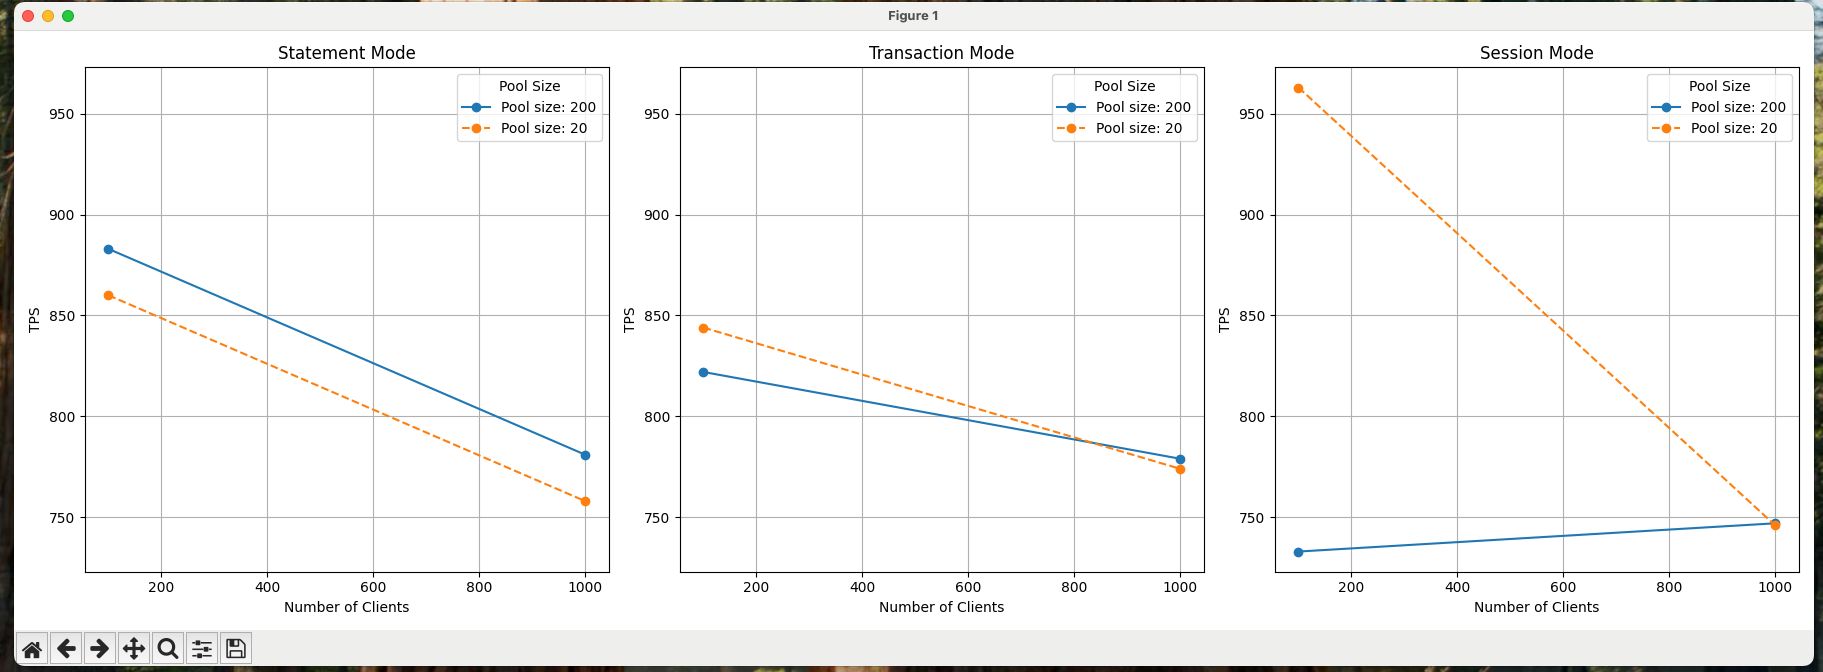
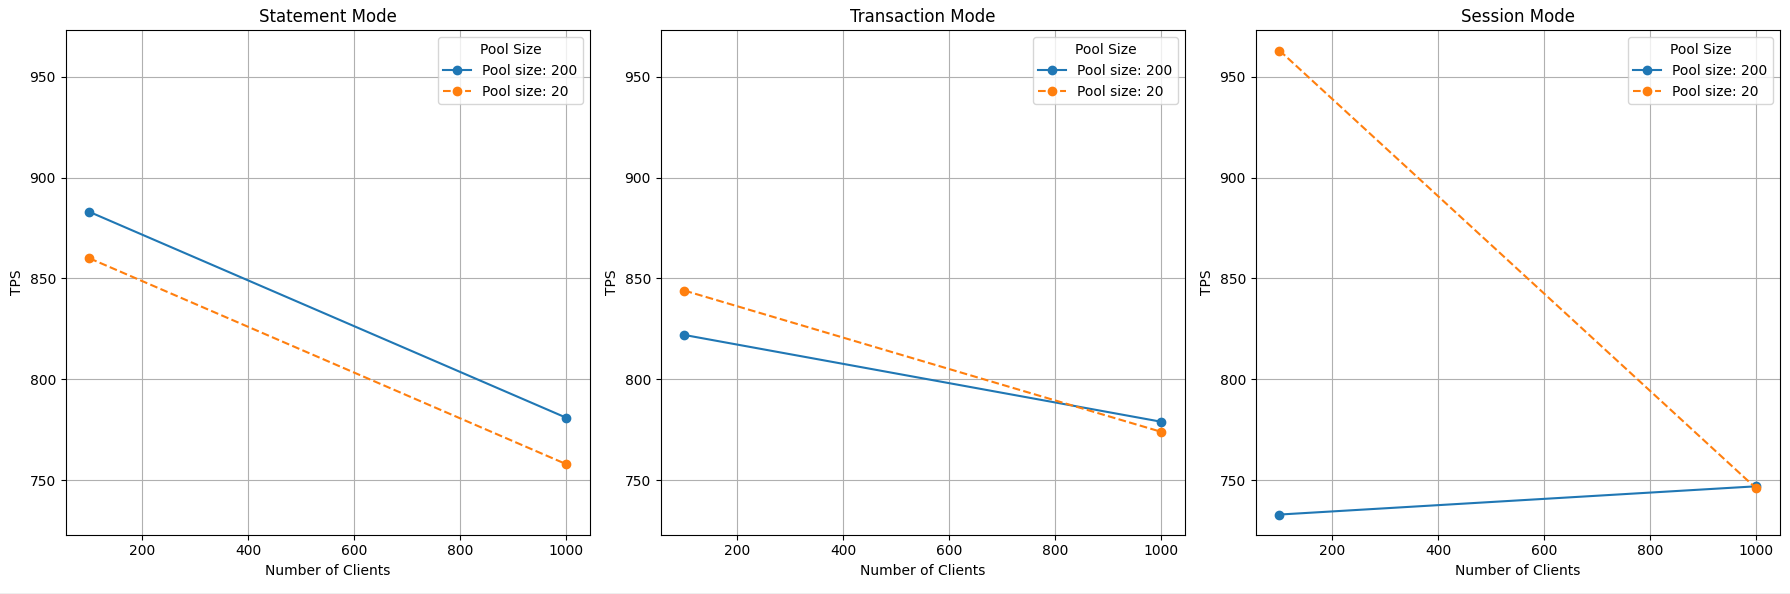
новые тесты

diff --git a/5/answer.md b/5/answer.md
@@ -68,7 +68,8 @@
     
 
 
-9) новый тест с сложным запросом
+9) UPD 22.03.2025  новый тест с усложненным бенчом(6 запросов в сумме, 3 селекта и 3 апдейта) 
+
    | default_pool_size | pool_mode   | Clients | Threads | Duration (s) | Failed (%) | Latency (ms) | TPS  |
    |-------------------|-------------|---------|---------|--------------|------------|--------------|------|
    | 200               | statement   | 100     | 4       | 10           | 0.000      | 113.228      | 883  |
@@ -85,7 +86,6 @@
    | 20                | session     | 1000    | 4       | 20           | 0.000      | 1339.575     | 746  |
 
 
-## Результаты pgBench теста
 
 ### Пул размера 200
 
@@ -110,3 +110,28 @@
 | session     | 1000    | 1339.575     | 746  |
 
 ![img.png](img.png)
+
+
+         Усложнил запросы бенчмарка и провел тестирование (100, 1000) Clients. (20,200) pull size.
+      Сейчас почти всегда стейтмент выигрывает, и при увелечении количества Clients мы всегда видим просадку по ТПС,
+      но есть онтересный момент, что при  statement mode Пул размера 200, происходит увелечение ТПС со 100 клиетов до 1000,
+      могу это объяснить тем что при низком количесве Clients лишния соеденения в пуле снижают производительность, так как в
+      statement mode используется 1 соеденения на клиента.   
+         При увеличении пула с 20 до 200 режим statement получил борльше тпс, так как там каждый запрос в новом соеденений и они не простаивали,
+      в transaction и session наоборот просели, так как были затраты на поддержку пустых конекшенов.
+      
+      Общие выводы
+      Пул = 200, 100 клиентов: Выигрывает statement так как переиспользует все connections в пуле 
+         session проигрывает так как есть накладные рассходы на поддержку пустых соеденений, так как их больше чем клиентов
+
+      Пул = 200, 1000 клиентов: Выигрывает statement, но разница уже не такая большая, так как переиспользует все connections в пуле, 
+         session проигрывает так как долго держит соеденения
+
+      Пул = 20, 100 клиентов: Выигрывает session, так как не трати время на переключения контекста как statement.
+         transaction проигрывает
+
+      Пул = 20, 1000 клиентов: Выигрывает transaction, так как не трати время на переключения контекста как statement и установку/ закртыие соеденений.  
+      session проигрывает, так как клиенту долго ждут соеденения при маленьком пуле
+      
+         
+
